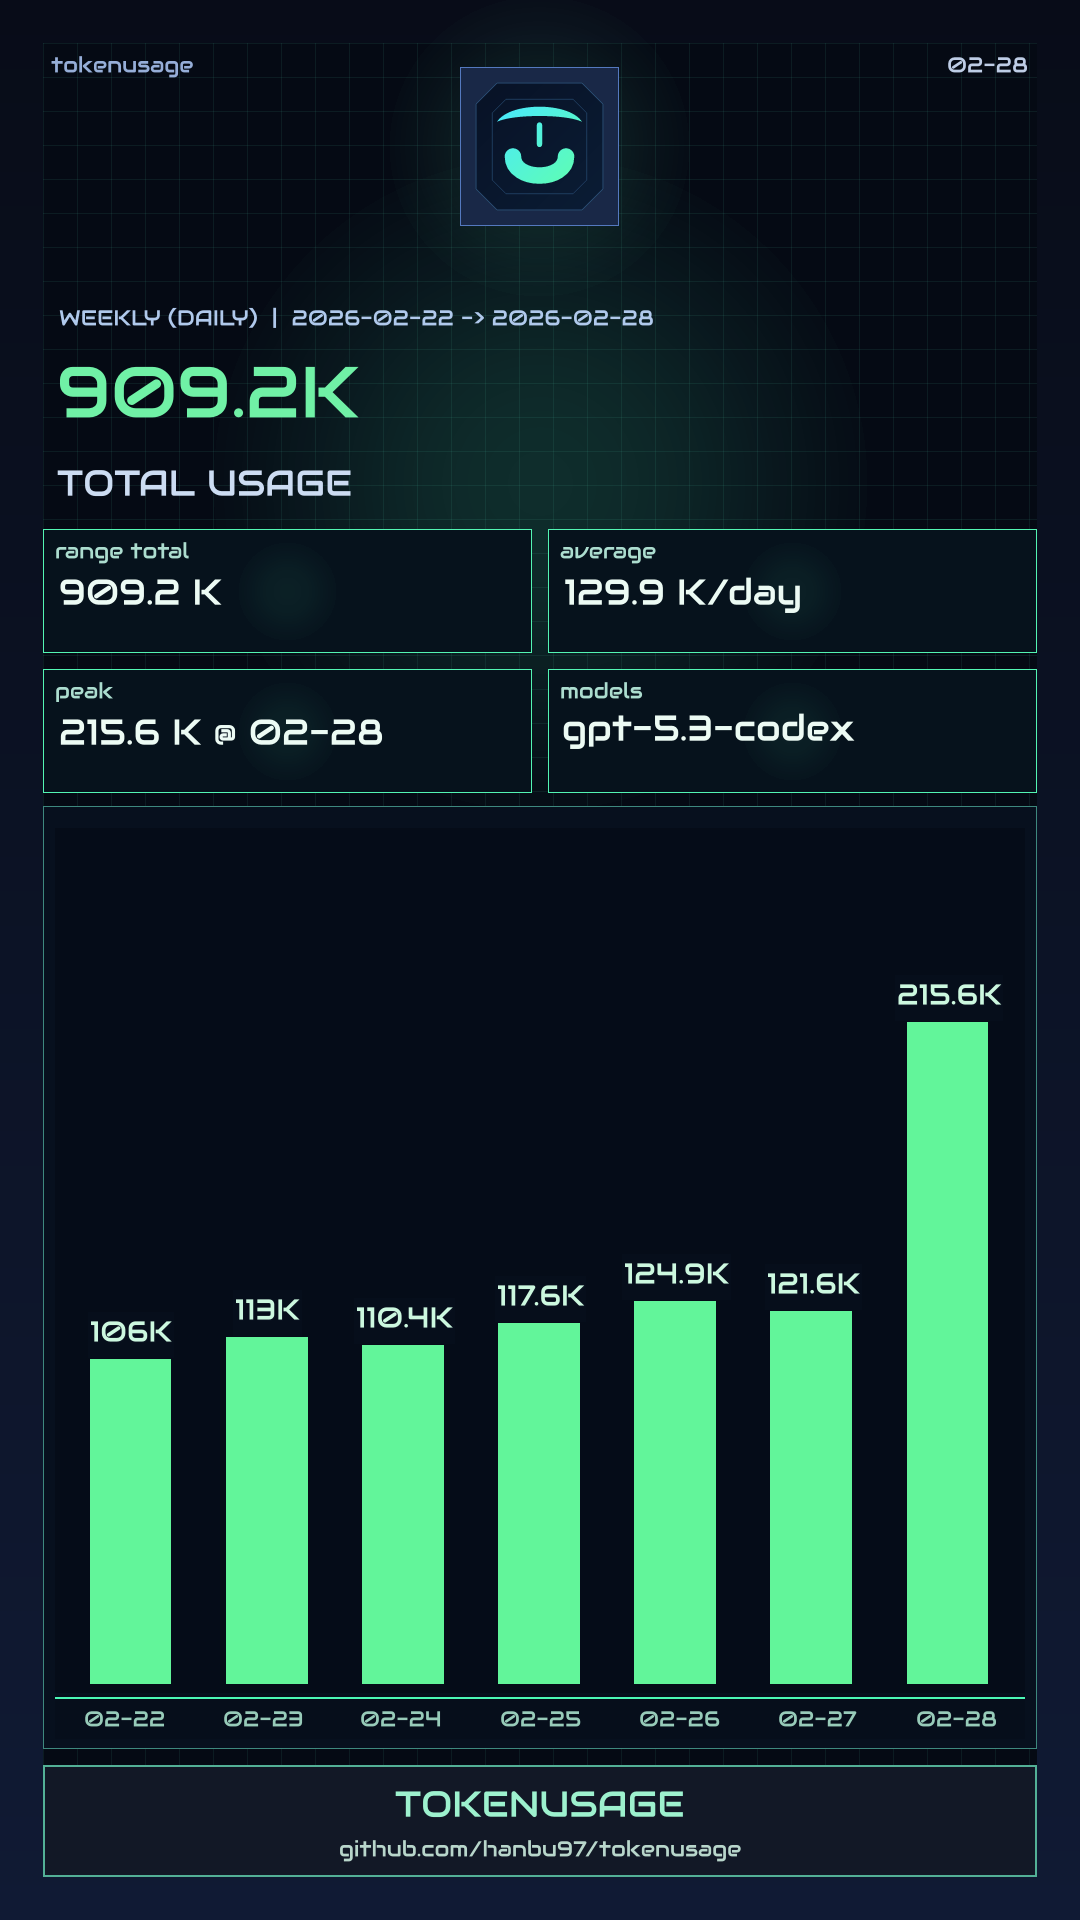
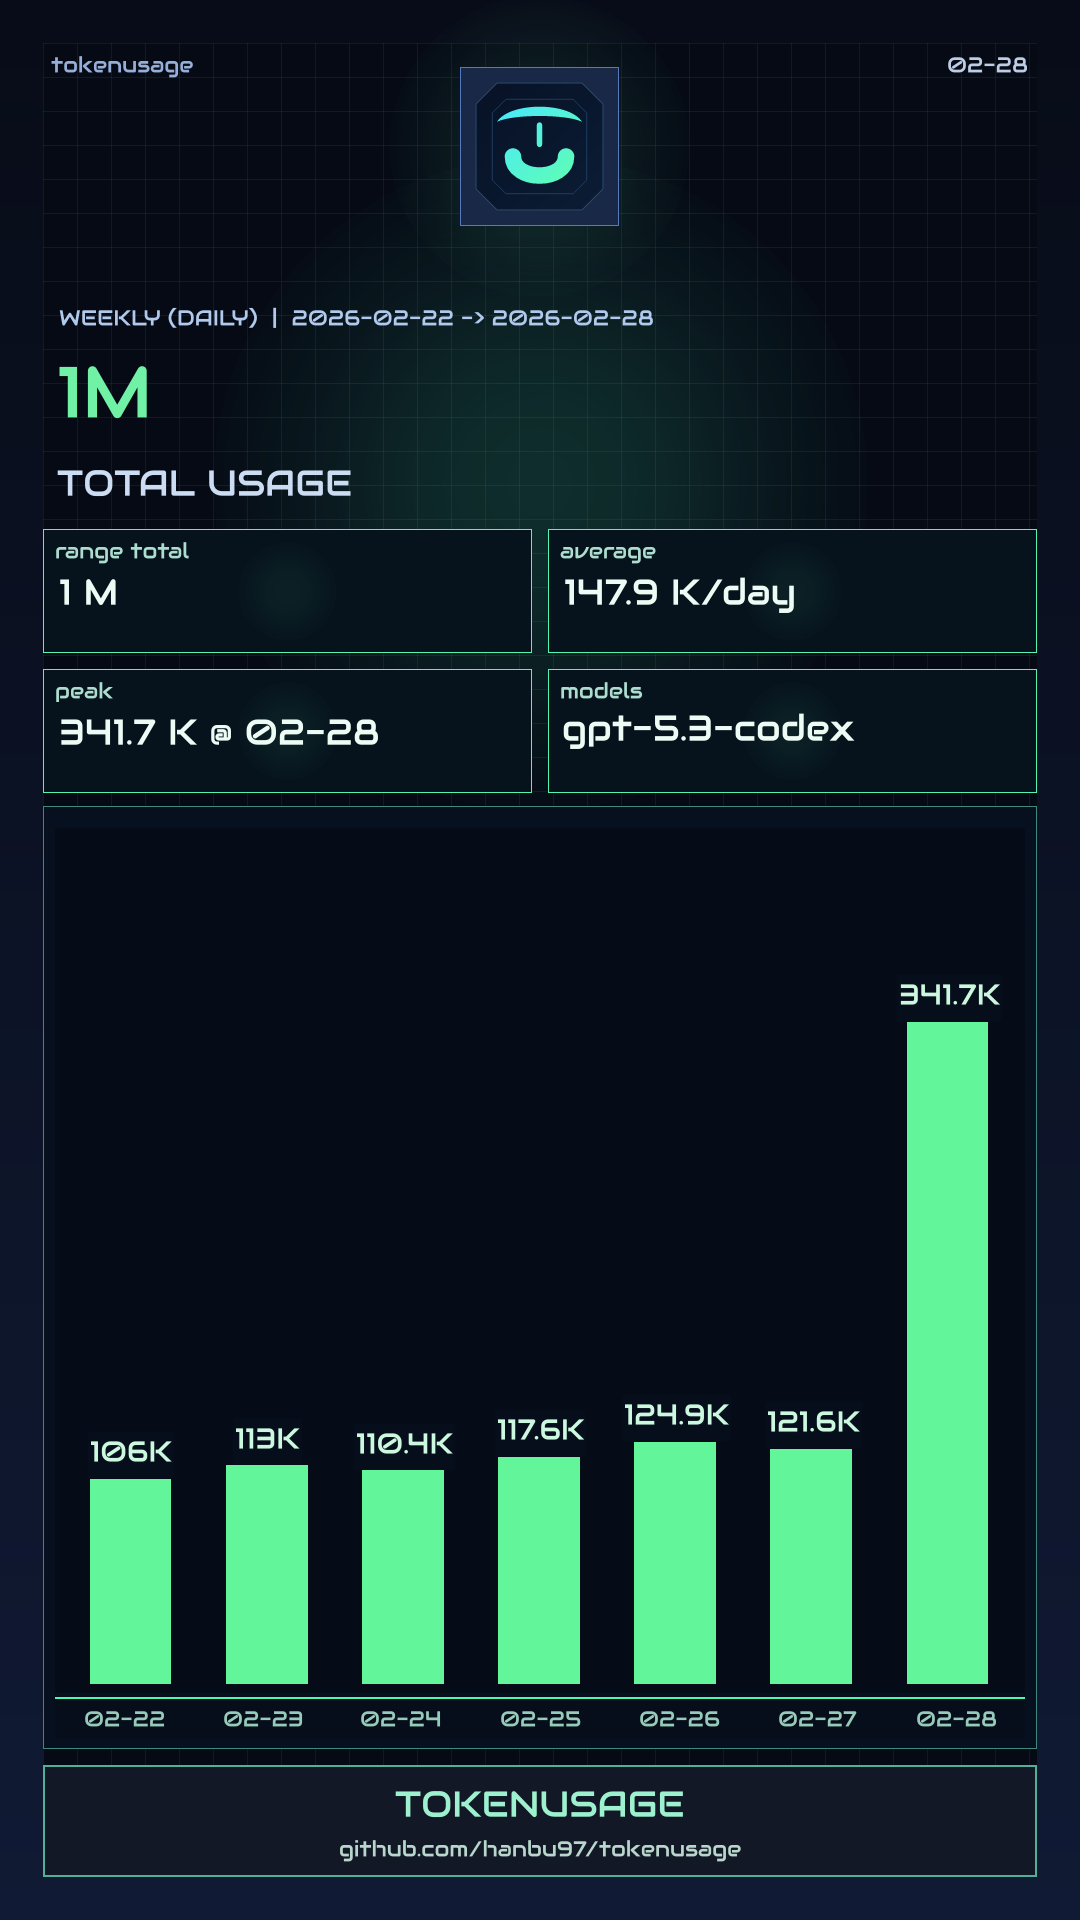
improve demo hourly dataset for non-zero daily share chart

diff --git a/examples/demo/generate_demo_data.py b/examples/demo/generate_demo_data.py
@@ -7,6 +7,33 @@ from pathlib import Path
 
 ROOT = Path(__file__).resolve().parents[2]
 DEMO_ROOT = ROOT / "examples" / "demo" / "data"
+DEMO_LOCAL_UTC_OFFSET = 8
+HOUR_WEIGHTS = [
+    0.08,
+    0.10,
+    0.12,
+    0.11,
+    0.13,
+    0.15,
+    0.17,
+    0.20,
+    0.23,
+    0.26,
+    0.30,
+    0.34,
+    0.40,
+    0.46,
+    0.54,
+    0.62,
+    0.57,
+    0.52,
+    0.47,
+    0.43,
+    0.39,
+    0.34,
+    0.28,
+    0.22,
+]
 
 
 def ensure(path: Path) -> None:
@@ -18,6 +45,12 @@ def write_jsonl(path: Path, rows: list[dict]) -> None:
     with path.open("w", encoding="utf-8") as f:
         for row in rows:
             f.write(json.dumps(row, ensure_ascii=False) + "\n")
+
+
+def local_hour_to_utc(base_day_utc: datetime, local_hour: int) -> datetime:
+    # Map local-hour buckets (Asia/Shanghai in demo config) back to UTC timestamp,
+    # so daily(hourly) charts on the demo day fill 00-23 without spilling to neighbors.
+    return base_day_utc + timedelta(hours=local_hour - DEMO_LOCAL_UTC_OFFSET)
 
 
 def make_claude_rows(project: str, model: str, start_day: datetime) -> list[dict]:
@@ -32,19 +65,43 @@ def make_claude_rows(project: str, model: str, start_day: datetime) -> list[dict
         cache_read = 120_000 + i * 36_000 + spike * 90_000
         output_tokens = 3200 + i * 300 + spike * 2200
 
-        rows.append(
-            {
-                "timestamp": (day + timedelta(hours=2)).isoformat().replace("+00:00", "Z"),
-                "model": model,
-                "usage": {
-                    "input_tokens": input_tokens,
-                    "cache_creation_input_tokens": cache_create,
-                    "cache_read_input_tokens": cache_read,
-                    "output_tokens": output_tokens,
-                },
-                "project": project,
-            }
-        )
+        # For the last demo day, spread usage across all 24 hours so `tu img day`
+        # generates a meaningful hourly chart (instead of one spike + many zeros).
+        if i == 19:
+            for hour, weight in enumerate(HOUR_WEIGHTS):
+                rows.append(
+                    {
+                        "timestamp": local_hour_to_utc(day, hour)
+                        .isoformat()
+                        .replace("+00:00", "Z"),
+                        "model": model,
+                        "usage": {
+                            "input_tokens": max(120, int(input_tokens * weight * 0.22)),
+                            "cache_creation_input_tokens": max(
+                                30, int(cache_create * (0.75 + hour * 0.01))
+                            ),
+                            "cache_read_input_tokens": max(
+                                2000, int(cache_read * weight * 0.12)
+                            ),
+                            "output_tokens": max(80, int(output_tokens * weight * 0.28)),
+                        },
+                        "project": project,
+                    }
+                )
+        else:
+            rows.append(
+                {
+                    "timestamp": (day + timedelta(hours=2)).isoformat().replace("+00:00", "Z"),
+                    "model": model,
+                    "usage": {
+                        "input_tokens": input_tokens,
+                        "cache_creation_input_tokens": cache_create,
+                        "cache_read_input_tokens": cache_read,
+                        "output_tokens": output_tokens,
+                    },
+                    "project": project,
+                }
+            )
     return rows
 
 
@@ -59,33 +116,69 @@ def make_codex_rows(model: str, start_day: datetime, step: int) -> list[dict]:
         input_tokens = total + cached
         output_tokens = 3600 + i * 360 + spike * 1500
 
-        rows.append(
-            {
-                "timestamp": (day + timedelta(hours=6)).isoformat().replace("+00:00", "Z"),
-                "type": "turn_context",
-                "payload": {"model": model},
-            }
-        )
-        rows.append(
-            {
-                "timestamp": (day + timedelta(hours=6, minutes=step)).isoformat().replace(
-                    "+00:00", "Z"
-                ),
-                "type": "event_msg",
-                "payload": {
-                    "type": "token_count",
-                    "info": {
-                        "last_token_usage": {
-                            "input_tokens": input_tokens,
-                            "cached_input_tokens": cached,
-                            "output_tokens": output_tokens,
-                            "reasoning_output_tokens": int(output_tokens * 0.15),
-                            "total_tokens": input_tokens + output_tokens,
-                        }
+        if i == 19:
+            for hour, weight in enumerate(HOUR_WEIGHTS):
+                hour_input = max(180, int(input_tokens * weight * 0.20))
+                hour_cached = max(80, int(cached * weight * 0.22))
+                hour_output = max(90, int(output_tokens * weight * 0.32))
+                rows.append(
+                    {
+                        "timestamp": local_hour_to_utc(day, hour)
+                        .isoformat()
+                        .replace("+00:00", "Z"),
+                        "type": "turn_context",
+                        "payload": {"model": model},
+                    }
+                )
+                rows.append(
+                    {
+                        "timestamp": local_hour_to_utc(day, hour)
+                        .replace(minute=step)
+                        .isoformat()
+                        .replace("+00:00", "Z"),
+                        "type": "event_msg",
+                        "payload": {
+                            "type": "token_count",
+                            "info": {
+                                "last_token_usage": {
+                                    "input_tokens": hour_input,
+                                    "cached_input_tokens": hour_cached,
+                                    "output_tokens": hour_output,
+                                    "reasoning_output_tokens": int(hour_output * 0.15),
+                                    "total_tokens": hour_input + hour_output,
+                                }
+                            },
+                        },
+                    }
+                )
+        else:
+            rows.append(
+                {
+                    "timestamp": (day + timedelta(hours=6)).isoformat().replace("+00:00", "Z"),
+                    "type": "turn_context",
+                    "payload": {"model": model},
+                }
+            )
+            rows.append(
+                {
+                    "timestamp": (day + timedelta(hours=6, minutes=step)).isoformat().replace(
+                        "+00:00", "Z"
+                    ),
+                    "type": "event_msg",
+                    "payload": {
+                        "type": "token_count",
+                        "info": {
+                            "last_token_usage": {
+                                "input_tokens": input_tokens,
+                                "cached_input_tokens": cached,
+                                "output_tokens": output_tokens,
+                                "reasoning_output_tokens": int(output_tokens * 0.15),
+                                "total_tokens": input_tokens + output_tokens,
+                            }
+                        },
                     },
-                },
-            }
-        )
+                }
+            )
     return rows
 
 
